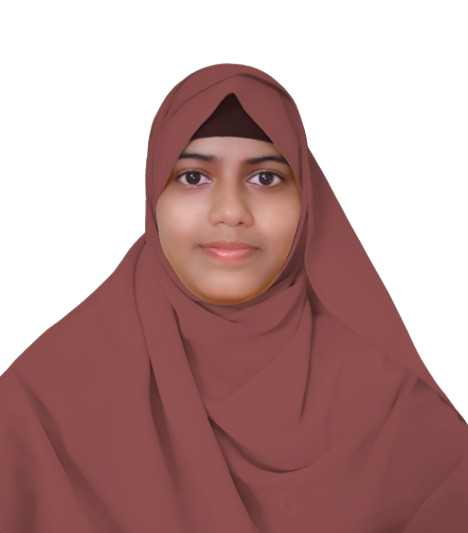
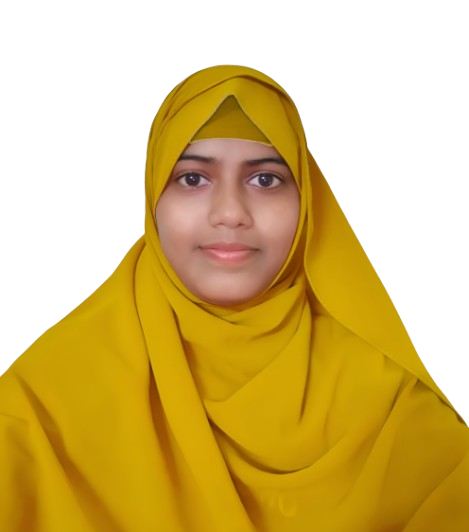
Final Updates

diff --git a/css/style.css b/css/style.css
@@ -941,7 +941,7 @@ ul {
 
 
 .style-switcher .color-1 {
-    background: #955251;
+    background:#C99E02 ;
 }
 
 .style-switcher .color-2 {
@@ -953,7 +953,7 @@ ul {
 }
 
 .style-switcher .color-4 {
-    background: #C37801;
+    background: #955251;
 }
 
 .style-switcher .color-5 {

diff --git a/css/skins/color-1.css b/css/skins/color-1.css
@@ -1,4 +1,4 @@
 :root{
-    --skin-color:#955251;
+    --skin-color:#C99E02;
     --profile-img:url(../images/img-1.png)
 }

diff --git a/css/skins/color-4.css b/css/skins/color-4.css
@@ -1,4 +1,4 @@
 :root{
-    --skin-color:#C37801;
+    --skin-color:#955251;
     --profile-img:url(../images/img-4.png)
 }
